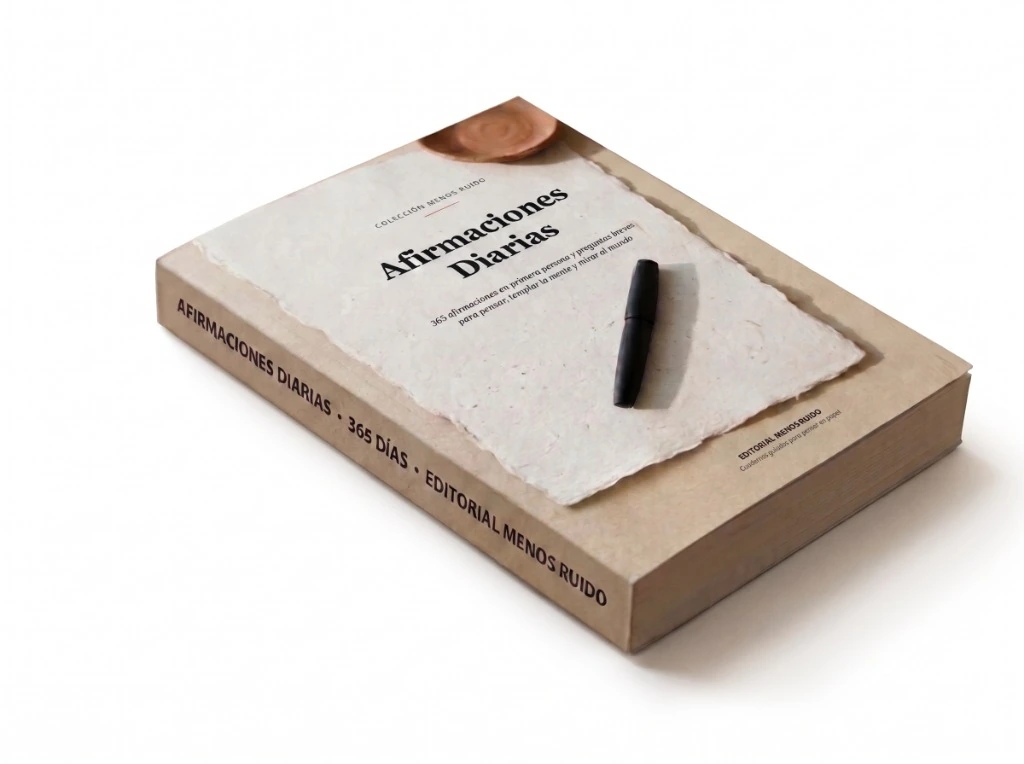
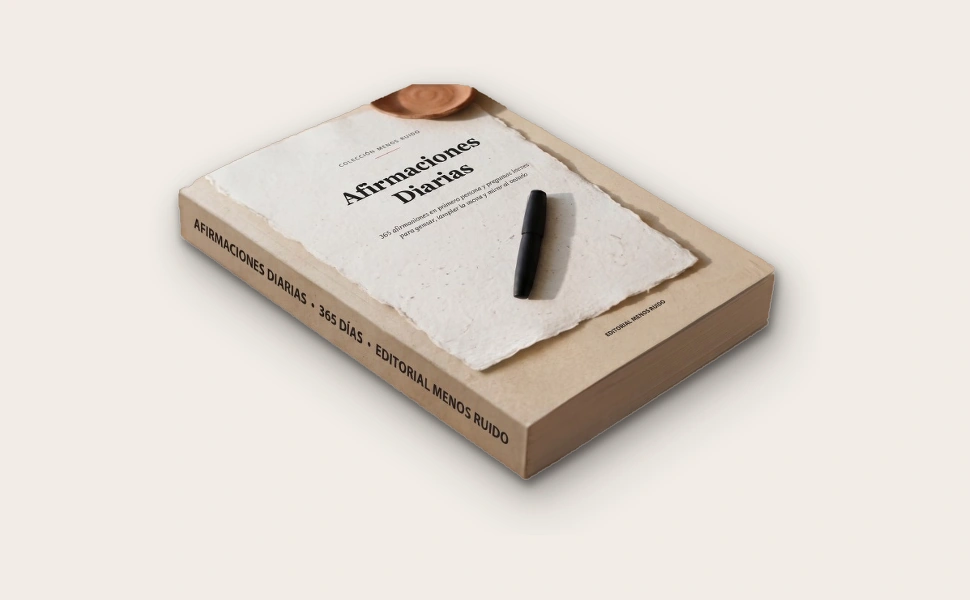
fix: alinear altura de tarjetas, fondo habla claro en catalogo y fondo hero en afirmaciones

diff --git a/cuadernos.html b/cuadernos.html
@@ -152,12 +152,12 @@
                                         <!-- 1. Afirmaciones Diarias -->
                     <div class="product-card fade-in-up">
                         <div class="product-image">
-                            <img src="/cover_afirmaciones.webp" alt="Afirmaciones Diarias - Cuaderno de enfoque y escritura" loading="lazy" style="cursor: zoom-in;">
+                            <img src="/cover_afirmaciones.webp?v=7" alt="Afirmaciones Diarias - Cuaderno de enfoque y escritura" loading="lazy" style="cursor: zoom-in;">
                         </div>
                         <div class="product-info">
                             <span style="font-size: 0.75rem; font-weight: 700; color: var(--color-accent); text-transform: uppercase; letter-spacing: 1px; margin-bottom: 0.4rem; display: block;">Método Diario en Papel</span>
                             <h3>Afirmaciones Diarias</h3>
-                            <p>365 afirmaciones lúcidas y preguntas breves para templar el juicio, escribir 5 minutos a mano y recuperar el centro sin pantallas.</p>
+                            <p>Cuaderno guiado con 365 afirmaciones lúcidas y preguntas breves para templar el juicio, escribir 5 minutos al día a mano y recuperar el centro sin pantallas.</p>
                             <a href="/afirmaciones-diarias.html" class="btn-full">Ver Cuaderno</a>
                             <div style="display: flex; justify-content: space-between; gap: 8px; flex-wrap: wrap; padding-top: 10px; font-size: 0.82rem;">
                                 <a href="/afirmaciones-diarias.html#interior" style="color: var(--color-accent); font-weight: 600; text-decoration: none;">📖 Ver interior</a>

diff --git a/afirmaciones-diarias.html b/afirmaciones-diarias.html
@@ -199,7 +199,7 @@
                 </div>
 
                 <div class="hero-image fade-in delay-3" style="text-align: center; flex: 1.25; display: flex; justify-content: center; align-items: center;">
-                    <img src="/cover_afirmaciones.webp?v=6" alt="Foto real del cuaderno Afirmaciones Diarias" style="max-width: 560px; width: 100%; height: auto; display: block; cursor: default; user-select: none; pointer-events: none;" loading="eager" />
+                    <img src="/images/libros/afirmaciones-diarias/cuaderno-afirmaciones-real-hero.webp?v=7" alt="Foto real del cuaderno Afirmaciones Diarias" style="max-width: 560px; width: 100%; height: auto; display: block; cursor: default; user-select: none; pointer-events: none;" loading="eager" />
                 </div>
             </div>
             <div class="bg-shape"></div>

diff --git a/index.html b/index.html
@@ -476,7 +476,7 @@
                                         <!-- Producto: Afirmaciones Diarias -->
                     <div class="product-card fade-in-up">
                         <div class="product-image">
-                            <img src="/cover_afirmaciones.webp" alt="Afirmaciones Diarias" loading="lazy" style="cursor: zoom-in;">
+                            <img src="/cover_afirmaciones.webp?v=7" alt="Afirmaciones Diarias" loading="lazy" style="cursor: zoom-in;">
                         </div>
                         <div class="product-info">
                             <h3>Afirmaciones Diarias</h3>
